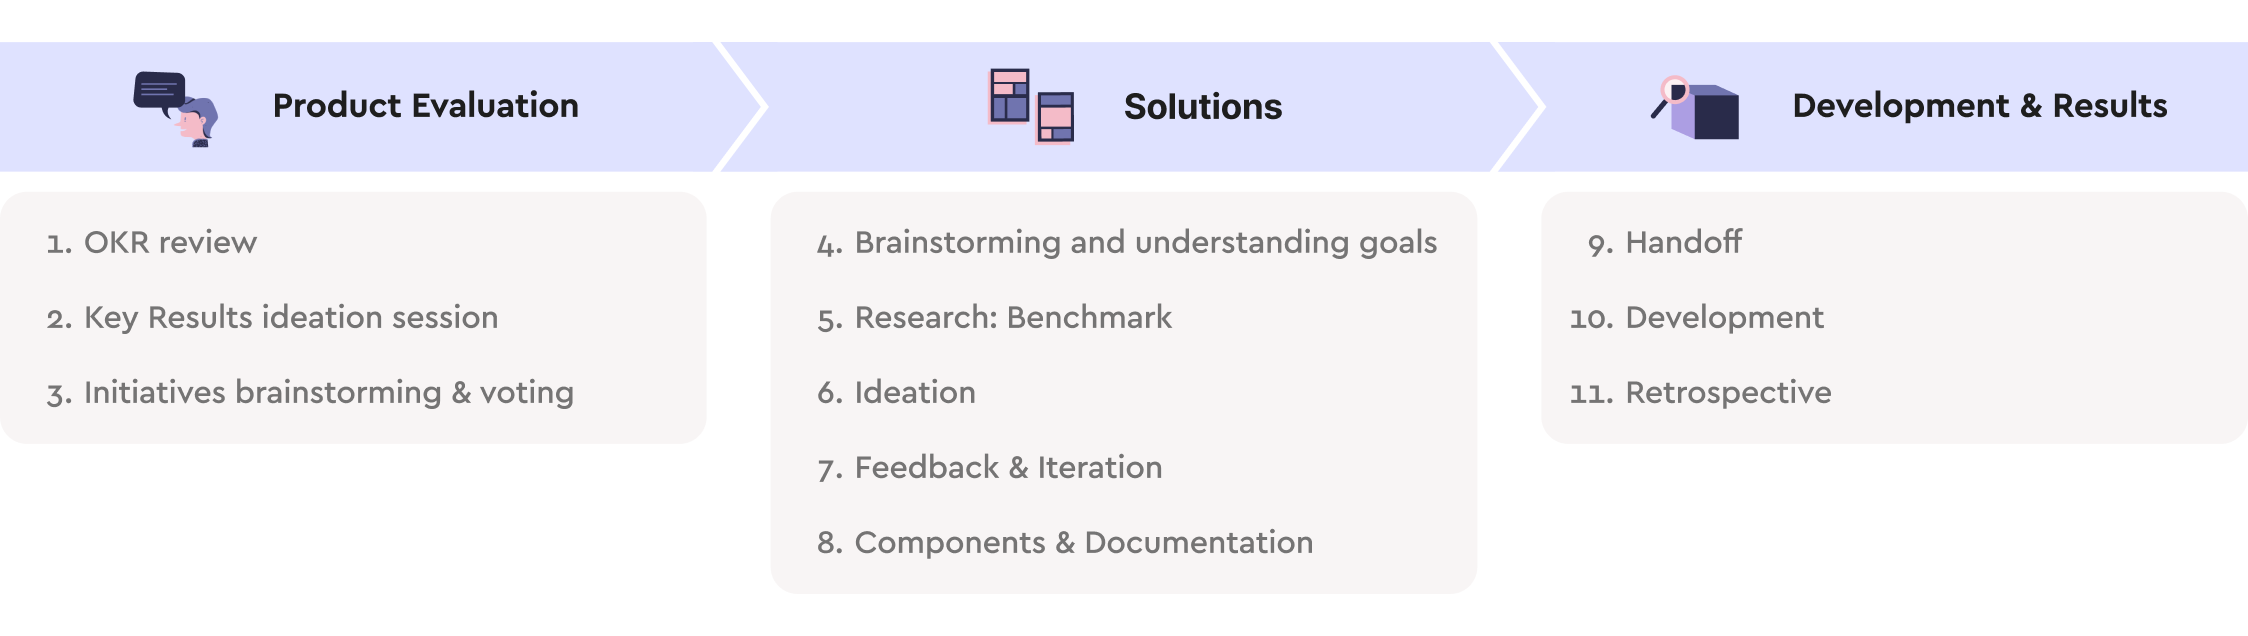
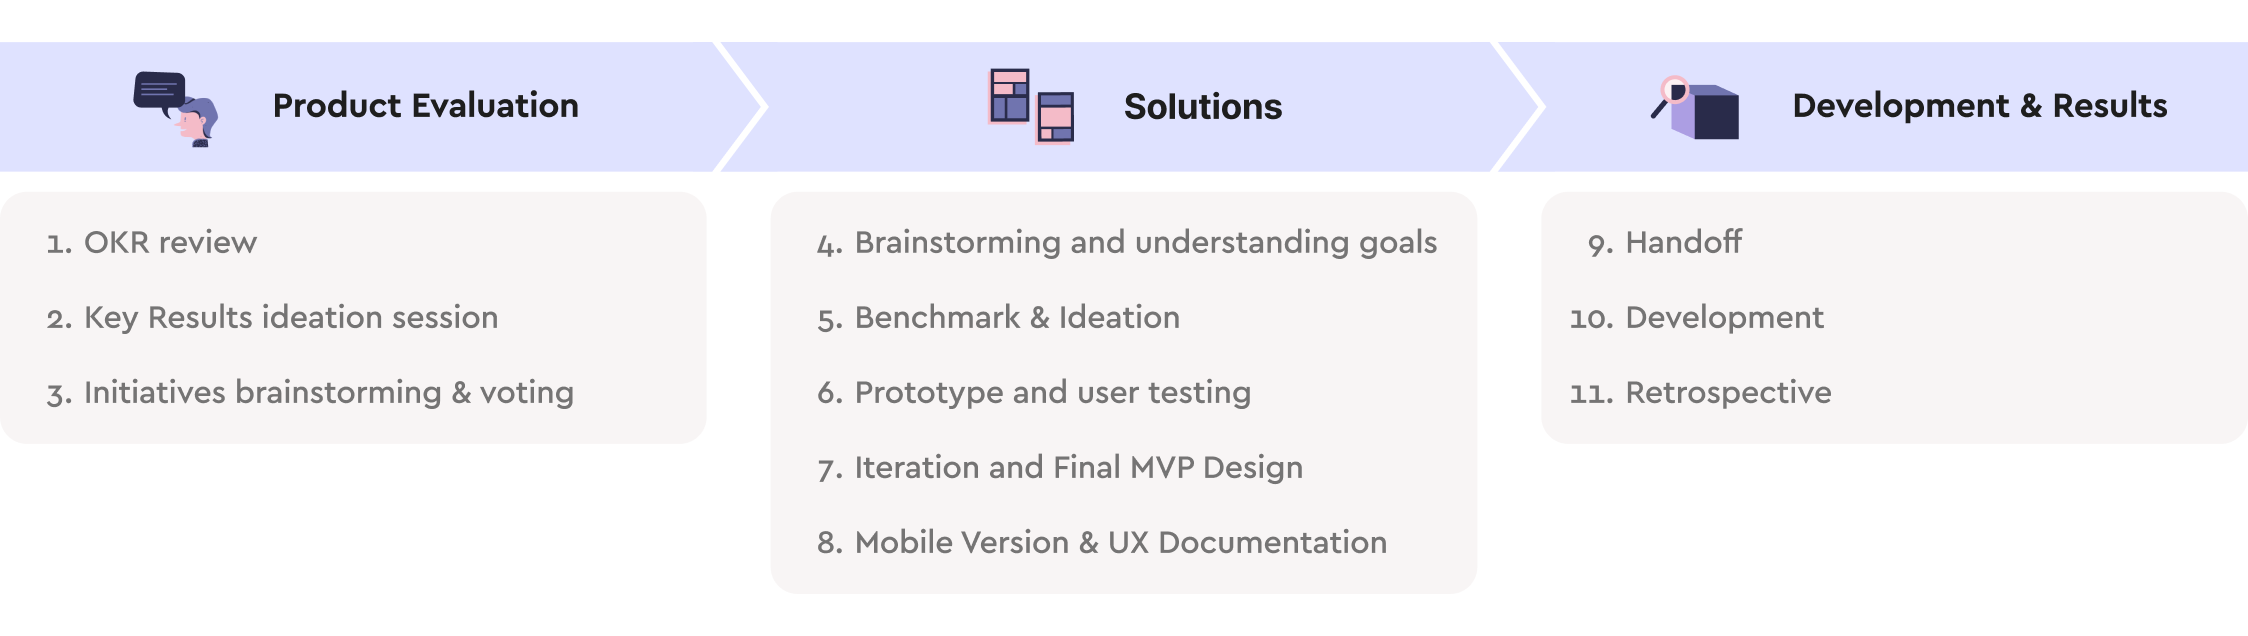
fix

diff --git a/project-timeular.html b/project-timeular.html
@@ -79,11 +79,11 @@
             <p>During these interviews, I presented users with hypothetical scenarios to gauge their interaction with the prototype's goals feature. Each session concluded with an open discussion, inviting users to provide feedback on their experience and how they perceived the feature's effectiveness. This iterative process ensured that the final solution was both user-centric and optimized for  real users needs.</p>
             <img src="img/projects/timeular/02.png"/>
 
-            <h2>Creating Feature MVP</h2>
+            <h2>Iteration & Creating Feature MVP</h2>
             <p>We opted to roll out the functionality with the essential features required to meet the predominant user need, primarily centered around reaching a specific number of hours. Consequently, we concentrated solely on launching this type of goal initially, aiming to collect feedback and insights into its efficacy and utility with this initial version.</p>
             <img src="img/projects/timeular/03.png"/>
 
-            <h2>Card Behavior</h2>
+            <h2>UX Documentation: Card Behavior</h2>
             <p>Depending on the goal's setup and status, the card will display varying information. For instance, if a deadline is set, the goal visualization will appear as a counter; otherwise, users will see a progress bar. Furthermore, the text content will be customized based on each specific scenario.</p>
             <img src="img/projects/timeular/04.png"/>
 
